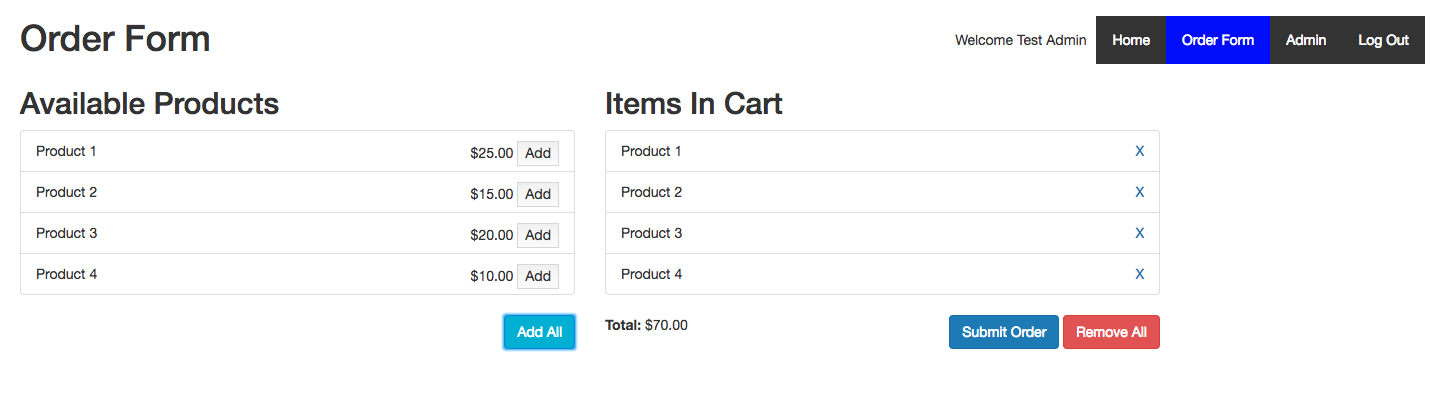
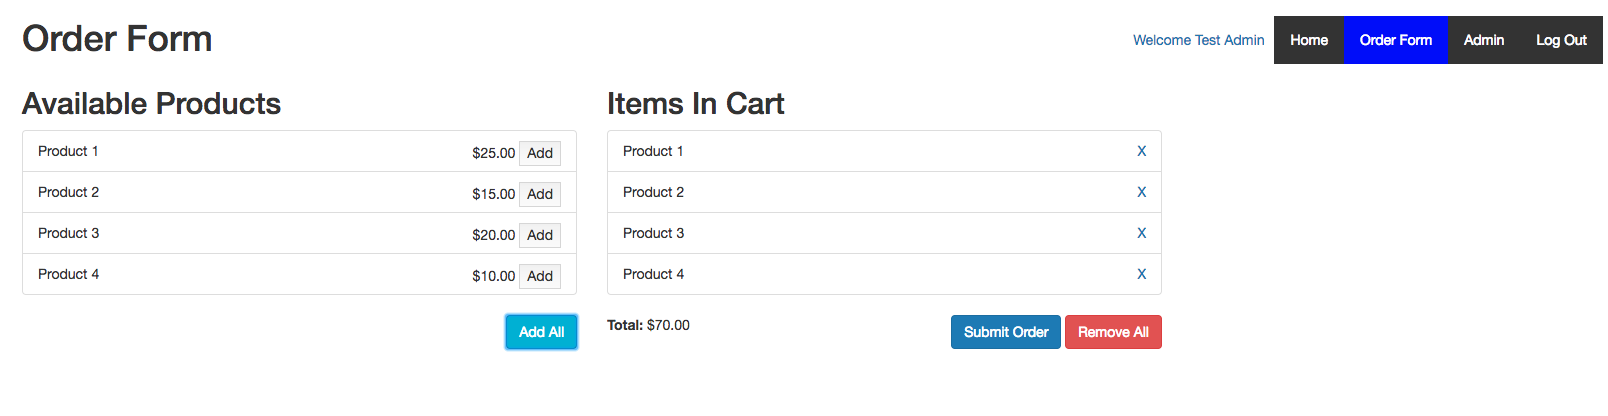
Added myaccount

diff --git a/Exercise3/public/css/custom.css b/Exercise3/public/css/custom.css
@@ -20,6 +20,8 @@
     position: absolute;
     right: 10px;
     top: 18px;
+    z-index: 100;
+    clear: both;
 }
 
 .menu-links > div > ul {

diff --git a/Exercise3/resources/views/admin-angular.blade.php b/Exercise3/resources/views/admin-angular.blade.php
@@ -1,5 +1,4 @@
-<div ng-controller="AdminController as vm">
-    <menu page="admin"></menu>
+<div>
     <div class="col-md-12">
         <h1>Admin</h1>
     </div>
@@ -8,117 +7,18 @@
             <uib-tab index="0" heading="Products" classes="my-tab">
                 <div class="col-md-6">
                     <h2>Available Products</h2>
-                    <table class="table table-striped table-hover">
-                        <!-- <thead>
-                            <tr>
-                                <th>
-                                    Product
-                                </th>
-                                <th>
-                                    Price
-                                </th>
-                                <th></th>
-                            </tr>
-                        </thead>
-                        <tbody>
-                            <tr ng-repeat="item in vm.products">
-                                <td>
-                                    <% item.name %>
-                                </td>
-                                <td>
-                                    <% item.price | currency %>
-                                </td>
-                                <td>
-                                    <button ng-click="vm.edit(item)">Edit</button>
-                                    <button ng-click="vm.remove(item)">Remove</button>
-                                </td>
-                            </tr>
-                        </tbody> -->
-                    </table>
-                    <!-- <button ng-click="vm.add()">Add New</button> -->
+                    <table class="table table-striped table-hover"></table>
                 </div>
                 <div class="col-md-6">
                     <h2>Current Orders</h2>
-                    <!-- <div ng-if="vm.orders.length == 0">
-                        Nothing to show
-                    </div> -->
                     <div>
-                        <table class="table table-striped table-hover">
-                            <!-- <thead>
-                                <tr>
-                                    <th>
-                                        Product
-                                    </th>
-                                    <th>
-                                        Order Time
-                                    </th>
-                                    <th>
-                                        Fulfilled?
-                                    </th>
-                                    <th></th>
-                                </tr>
-                            </thead>
-                            <tbody>
-                                <tr ng-repeat="item in vm.orders">
-                                    <td>
-                                        <% item.product.name %>
-                                    </td>
-                                    <td>
-                                        <% item.when | date : 'yyyy-MM-dd HH:mm:ss' %>
-                                    </td>
-                                    <td ng-if="item.fulfilled">
-                                        Yes
-                                    </td>
-                                    <td ng-if="!item.fulfilled">
-                                        No
-                                    </td>
-                                    <td>
-                                        <button ng-click="vm.fulfillOrder(item.id)" ng-disabled="item.fulfilled">Fulfill Order</button>
-                                        <button ng-click="vm.cancelOrder(item.id)">Cancel Order</button>
-                                    </td>
-                                </tr>
-                            </tbody> -->
-                        </table>
+                        <table class="table table-striped table-hover"></table>
                     </div>
                 </div>
             </uib-tab>
             <uib-tab index="1" heading="Users" classes="my-tab">
                 <h2>Users</h2>
-                <table class="table table-striped table-hover">
-                    <!-- <thead>
-                        <tr>
-                            <th>
-                                Username
-                            </th>
-                            <th>
-                                Name
-                            </th>
-                            <th>
-                                Role
-                            </th>
-                            <th></th>
-                        </tr>
-                    </thead>
-                    <tbody>
-                        <tr ng-repeat="user in vm.users">
-                            <td>
-                                <% user.username %>
-                            </td>
-                            <td>
-                                <% user.name %>
-                            </td>
-                            <td>
-                                <% user.role %>
-                            </td>
-                            <td>
-                                <button ng-click="vm.editUser(user)">Edit</button>
-                                <button ng-click="vm.changePassword(user)">Change Password</button>
-                                <button ng-click="vm.deleteUser(user)">Remove</button>
-                            </td>
-                        </tr>
-                    </tbody> -->
-                </table>
-                <!-- <button ng-click="vm.addUser()">Add New</button> -->
+                <table class="table table-striped table-hover"></table>
             </uib-tab>
         </uib-tabset>
     </div>

diff --git a/Exercise3/app/Http/Controllers/UserController.php b/Exercise3/app/Http/Controllers/UserController.php
@@ -123,6 +123,9 @@ class UserController extends Controller
     public function editUser(Request $request)
     {
         $user = $request->input('user');
+
+        $change_password = $request->input('changePassword') ? $request->input('changePassword') : false;
+
         $response = ApiResponse::instance();
 
         $error_data = [];
@@ -136,6 +139,18 @@ class UserController extends Controller
 
         if ($user['role'] === null || $user['role'] === '') {
             $error_data['role'] = 'Role is required';
+        }
+
+        if ($change_password) {
+            if (!array_key_exists('password', $user) || $user['password'] === null || $user['password'] === '') {
+                $error_data['password'] = 'Password is required';
+            } else {
+                if ($user['password'] !== $request->input('repeat')) {
+                    $error_data['password'] = 'Passwords do not match';
+                } else if (strlen($user['password']) < 6) {
+                    $error_data['password'] = 'Password must be 6 characters minimum';
+                }
+            }
         }
 
         if (!empty($error_data)) {
@@ -168,6 +183,7 @@ class UserController extends Controller
                 $item->username = $user['username'];
                 $item->name = $user['name'];
                 $item->role = $user['role'];
+                $item->password = $user['password'];
                 break;
             }
         }

diff --git a/Exercise3/resources/views/myaccount.blade.php b/Exercise3/resources/views/myaccount.blade.php
@@ -1,0 +1,20 @@
+<!-- Fill in here -->
+<div>
+    <div class="col-md-12">
+        <h1>My Account</h1>
+    </div>
+    <div class="col-md-12">
+        <div class="row">
+            <div class="col-md-4">
+                <h2>Account Information</h2>
+                <ul class="list-group"></ul>
+            </div>
+        </div>
+        <div class="col-md-6">
+            <h2>My Orders</h2>
+            <div>
+                <table class="table table-striped table-hover"></table>
+            </div>
+        </div>
+    </div>
+</div>

diff --git a/Exercise3/routes/web.php b/Exercise3/routes/web.php
@@ -34,6 +34,11 @@ Route::get('/admin/angular', function() {
     return view('content');
 });
 
+Route::get('/myaccount', function() {
+    return view('content');
+});
+
+
 // Products
 Route::get('/products', 'ProductController@get');
 Route::post('/add-product', 'ProductController@addProduct');

diff --git a/Exercise3/resources/views/welcome.blade.php b/Exercise3/resources/views/welcome.blade.php
@@ -50,7 +50,7 @@
         margin-bottom: 30px;
     }
 </style>
-<div ng-controller="HomeController as vm">
+<div>
     <div class="flex-center position-ref full-height">
         <div class="content">
             <div class="title m-b-md">

diff --git a/Exercise3/readme.md b/Exercise3/readme.md
@@ -32,6 +32,9 @@ This exercise will include a variety of additions and changes.
         - Add a new user
 - Add a login page
 - Show a menu with changing active tab based on user role
+- Show a My Account page
+    - Display/edit user information
+    - Display user's orders
 
 ### Final Products
 
@@ -90,6 +93,24 @@ The option to edit a user should appear in a modal.
 
 The option to change a user's password should appear in a modal.
 
+### My Account
+
+**Normal User**
+
+*Read Only*
+![alt text](images/MyAccountUserRead.png "My Account User Readonly")
+
+*Edit User*
+![alt text](images/MyAccountUserEdit.png "My Account User Edit")
+
+**Admin User**
+
+*Read Only*
+![alt text](images/MyAccountAdminRead.png "My Account Admin Readonly")
+
+*Edit User*
+![alt text](images/MyAccountAdminEdit.png "My Account Admin Edit")
+
 ## The Task
 
 Your task is to create the functionality described above. You should build upon existing files created/edited in exercises 1 and 2 as well as create new files as necessary.
@@ -109,6 +130,7 @@ All AngularJS files should live at `public/js/app` and all template files should
   - `product_modal.blade.php`
   - `user_modal.blade.php`
   - `welcome.blade.php`
+  - `myaccount.blade.php`
 
 All modal templates can either be used directly or as an example skeleton.
 
@@ -135,6 +157,10 @@ To complete this task, the following must be done<sub>1</sub>:
 * Create a menu and add it to all pages. This **must** be done using a custom directive.
 * Update the Admin Page
   - Update the template in `angular-admin.blade.php`
+- Create a "My Account" page
+    - Create a `myaccount` state with these attributes
+        - url: `/myaccount`
+        - templateUrl: `view/myaccount`
 
 The final product should match the sample images and all test cases should be true.
 
@@ -152,9 +178,11 @@ The final product should match the sample images and all test cases should be tr
 * All functionality from Exercise 2 still exists
 * The "Products" tab is open by default
 * The "Current Orders" table shows "Yes" or "No" under "Fulfilled?"
+* The "Current Orders" table shows the user's name for any order placed by a logged in user
+* The "Current Orders" table shows 'Guest' for any order placed by an anonymous user
 * When a user presses "Fulfill Order"
   - The fulfillment status for the order changes to "Yes"
-  - The "Fulfill Order" button for that order disables
+  - The "Fulfill Order" and "Cancel Order" buttons for that order disables
 - When a user presses "Cancel Order" for an order, the order no longer appears on the table
 - When a user submits an order on the Order Form, the order is marked as not fulfilled on the "Current Orders" table
 - When a user selects the "Users" tab
@@ -176,7 +204,9 @@ The final product should match the sample images and all test cases should be tr
 - When a user presses "Edit" for a user, a modal appears
 - When a user presses close on the "Edit" modal, the "Users" reset to their original state and the modal closes
 - When a user presses update on the "Edit" modal, the user appears under "Users" on the Admin Page with the updated information and the modal closes
+- When a user updates their own information and changes their "name", the menu welcome message changes to reflect the name change
 - Updating a user uses the API
+- When a user's information is updated, those updates are reflected on the My Account page for that user on a subsequent login
 - If any of the following is true upon update of a user, a error messages appears, the modal data resets, the modal remains open, and no changes exist in the "Users" list
   - The username field is blank
   - The username is not unique
@@ -212,9 +242,56 @@ The final product should match the sample images and all test cases should be tr
 * The menu appears on every page
 * The menu shows a "Home" button that is active at `/`
 * The menu shows an "Order Form" button that is active at `/angular`
-* If a user is logged in, the menu shows a welcome message including their username
+* If a user is logged in, the menu shows a welcome message including their name
+    - This message is a link to the "My Account" page for the user
 * If a user is logged in and has a role of "admin", the menu shows an "Admin" button that is active at `/admin/angular`
+* If a user is logged in, the menu shows a "Logout" button
 * If a user is not logged in, the menu shows a "Login" button that is active at `/login`
+
+**My Account**
+
+In this section, user refers to the logged in user.
+
+* The menu appears with *no* active tab
+* The user's username appears in the page title
+* The user's username and name appear statically under "Account information" when the page loads
+* When the user presses "Edit", a form appears allowing the user to edit their
+    - Username
+    - Name
+    - Password
+- When the user presses "Edit", the password field is disabled and the change password checkbox is unchecked by default
+- When the user checks the change password checkbox, the password field enables
+- When the user checks the change password checkbox, a confirm password box appears
+- When the user unchecks the change password checkbox, the password field disables
+- When the user unchecks the change password checkbox, the confirm password field disappears
+- When the user unchecks the change password checkbox, the password field resets to its original value
+- When the user presses "Cancel", the fields reset to their original values (i.e., if "Edit" is pressed again, the changes do not persist)
+- When the user presses "Cancel", the change password field becomes unchecked and the password field disables
+- When the user presses "Cancel", the form disappears and the original, unchanged account information displays
+- When the user presses "Submit", the form disappears and the account information displays with any changes made
+- When a user presses "Submit" after changing their "name", the menu welcome message changes to reflect the name change
+- When a user presses "Submit" after changing their "username", the page title changes to reflect the name change
+- Updating a user's information uses the API
+- When a user updates their information, on a subsequent login by an admin user, the changes are reflected on the admin page
+- If any of the following is true upon submission of a user update, error messages appear, no menu or header changes occur, and the form remains visible
+    - The username field is blank
+    - The username is not unique
+    - The name field is blank
+    - The password field is blank if and only if change password is unchecked
+    - The confirm password field is blank if and only if change password is unchecked
+    - The password field does not match the confirm password field if and only if change password is unchecked
+- The user's orders appear in a table (none by default)
+- When a the user submits an order from the Order Form, the new order(s) appear under "My Orders", marked as unfulfilled
+- Any fulfilled order has its "Cancel Order" button disabled
+- When the user presses "Cancel Order", the order disappears from the list
+- When the user presses "Cancel Order", the order no longer appears on the "Current Orders" list on the admin page
+
+**Logout**
+
+- When the user presses Log Out the menu welcome message is removed
+- When the user presses Log Out the Admin Page button disappears (if applicable)
+- When the user presses Log Out they are directed to the Login page with that menu button active
+- After the user presses Log Out, if they click on any of the menu links they are directed to the page, but are considered anonymous
 
 ##### AngularJS Notes
 * All AngularJS code should use the [John Papa style guide](https://github.com/johnpapa/angular-styleguide/blob/master/a1/README.md)
